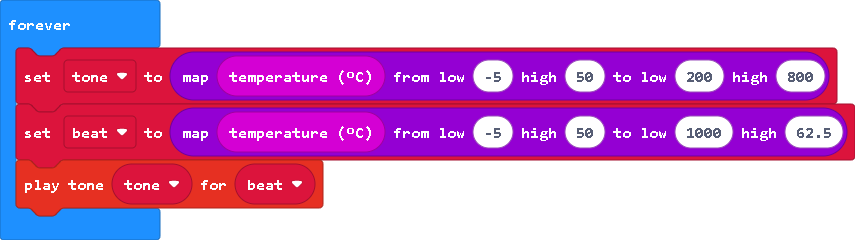
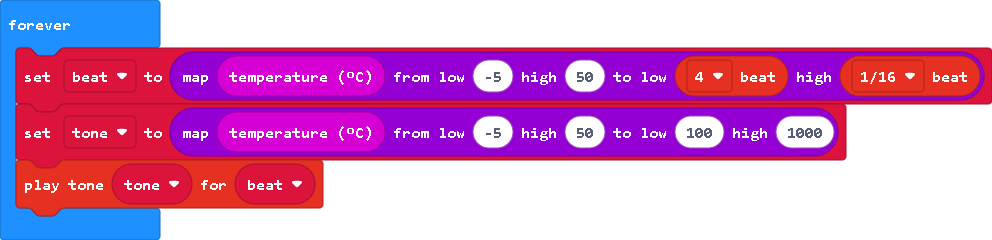
Update main.blocks, main.ts

Changed region(s): [[0.0, 0.0, 1.0, 1.0], [0.0, 0.0875, 0.0912, 0.1458], [0.0304, 0.8458, 0.0912, 0.9042]]

diff --git a/main.ts b/main.ts
@@ -1,7 +1,7 @@
-let tone = 0
 let beat = 0
+let tone = 0
 basic.forever(function () {
-    tone = Math.map(input.temperature(), -5, 50, 200, 800)
-    beat = Math.map(input.temperature(), -5, 50, 1000, 62.5)
+    beat = Math.map(input.temperature(), -5, 50, music.beat(BeatFraction.Breve), music.beat(BeatFraction.Sixteenth))
+    tone = Math.map(input.temperature(), -5, 50, 100, 1000)
     music.playTone(tone, beat)
 })
